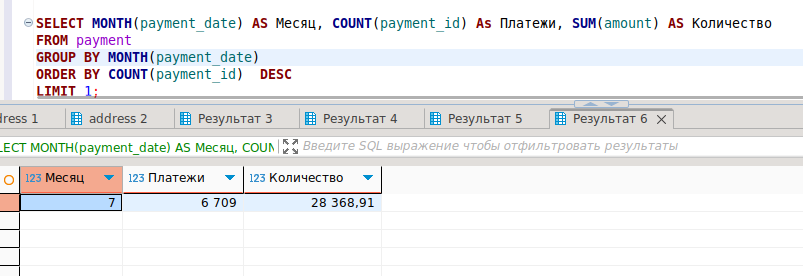
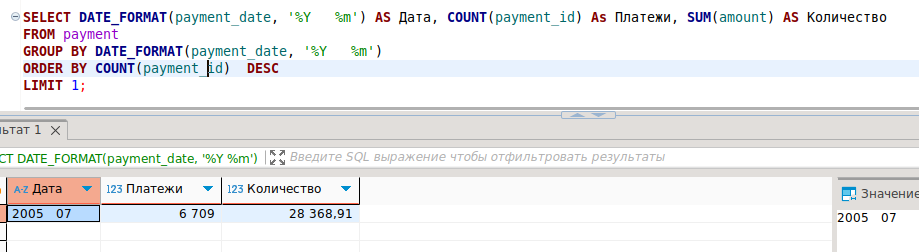
main, komment

diff --git a/README.md b/README.md
@@ -68,11 +68,12 @@ WHERE `length` > (SELECT AVG(`length`) from film);
 Получите информацию, за какой месяц была получена наибольшая сумма платежей, и добавьте информацию по количеству аренд за этот месяц.
 
 ```
-SELECT MONTH(payment_date) AS Месяц, COUNT(payment_id) As Платежи, SUM(amount) AS Количество
+SELECT DATE_FORMAT(payment_date, '%Y   %m') AS Дата, COUNT(payment_id) As Платежи, SUM(amount) AS Количество
 FROM payment
-GROUP BY MONTH(payment_date) 
+GROUP BY DATE_FORMAT(payment_date, '%Y   %m')
 ORDER BY COUNT(payment_id)  DESC
 LIMIT 1;
+
 ```
 <details>
 <summary>Скрин</summary>  
@@ -110,3 +111,17 @@ GROUP BY p.staff_id;
 
 Найдите фильмы, которые ни разу не брали в аренду.
 
+**Это решение есть в призентации.
+```
+SELECT f.title
+FROM film f
+LEFT JOIN inventory i ON i.film_id = f.film_id
+LEFT JOIN rental r ON r.inventory_id = i.inventory_id
+WHERE r.rental_id IS NULL;
+```
+<details>
+<summary>Скрин</summary>  
+
+![img](https://github.com/travickiy67/sql-part2/blob/main/img/img5.1.png)  
+
+</details>
